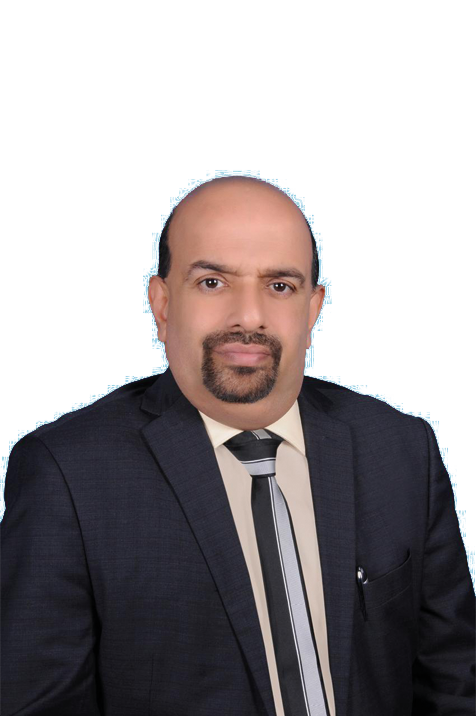
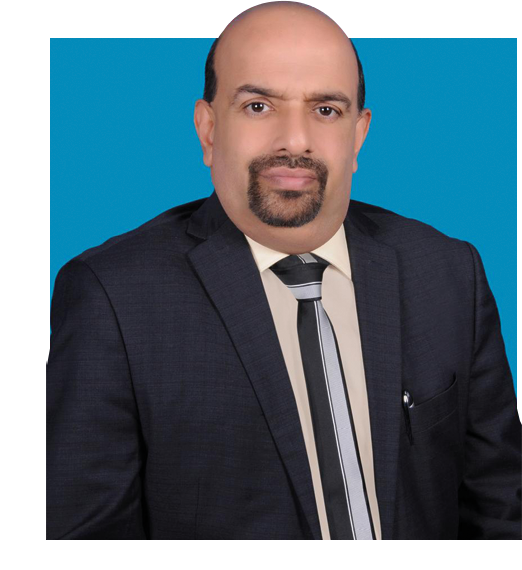
add navigation background color and chang founder section image

diff --git a/components/layout/Navbar.tsx b/components/layout/Navbar.tsx
@@ -1,5 +1,6 @@
 "use client";
 
+import { useEffect, useState } from "react";
 import Image from "next/image";
 import Link from "next/link";
 import { MoveRight, Menu } from "lucide-react";
@@ -22,8 +23,27 @@ const navLinks = [
 ];
 
 export default function Navbar() {
+
+  const [scrolled, setScrolled] = useState(false);
+
+  useEffect(() => {
+    const handleScroll = () => {
+      if (window.scrollY > 30) {
+        setScrolled(true);
+      } else {
+        setScrolled(false);
+      }
+    };
+
+    window.addEventListener("scroll", handleScroll);
+
+    return () => window.removeEventListener("scroll", handleScroll);
+  }, []);
+
   return (
-    <header className="fixed top-0 z-50 w-full">
+    <header className={`fixed top-0 z-50 w-full ${
+        scrolled ? "bg-black backdrop-blur-md" : "bg-transparent"
+      }`}>
       <Container>
         <div className="flex h-24 items-center justify-between">
           {/* Logo */}

diff --git a/components/home-sections/FounderSection.tsx b/components/home-sections/FounderSection.tsx
@@ -77,10 +77,10 @@ export default function FounderSection() {
         w-[70%] md:w-[30%]">
           <div className="my-5 h-[90%]" >
             <Image
-              src="/jacob new.webp"
+              src="/jacob.png"
               alt="Founder"
               fill
-              className="object-cover"
+              className="object-contain"
             />
           </div>
         </div>

diff --git a/components/home-sections/StatsSection.tsx b/components/home-sections/StatsSection.tsx
@@ -7,7 +7,7 @@ import Container from "@/components/layout/Container";
 const stats = [
   {
     tag: "EXPERIENCE",
-    value: "40+",
+    value: "45+",
     label: "YEARS OF EXPERIENCE",
   },
   {